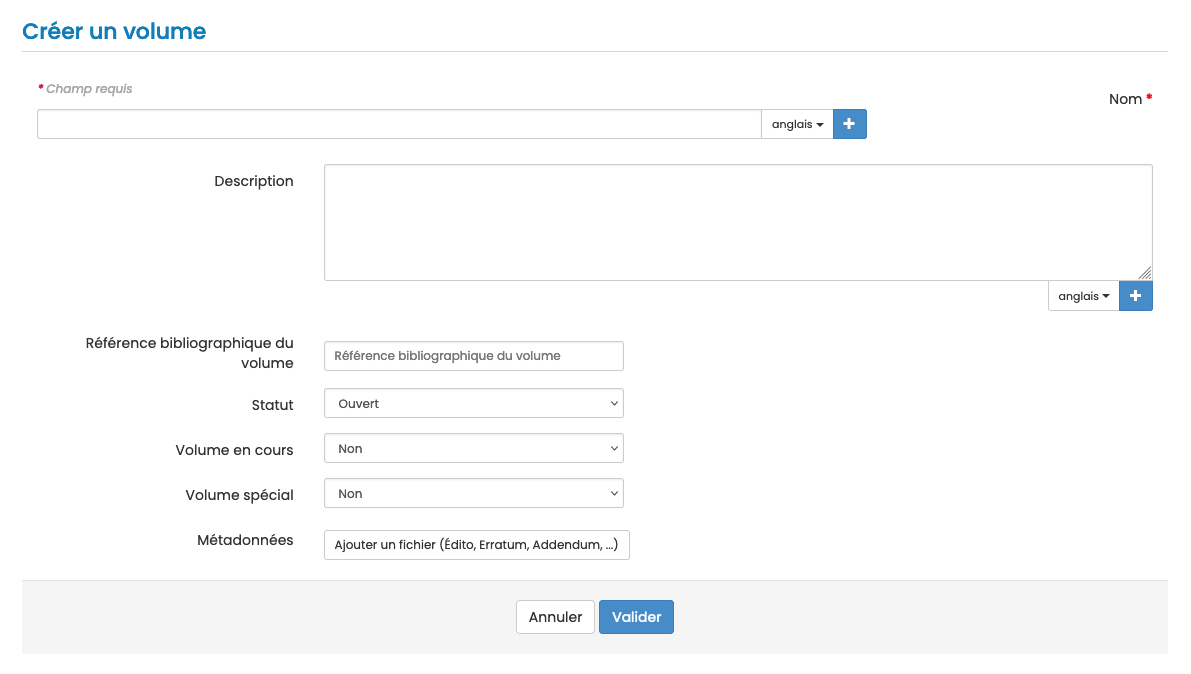
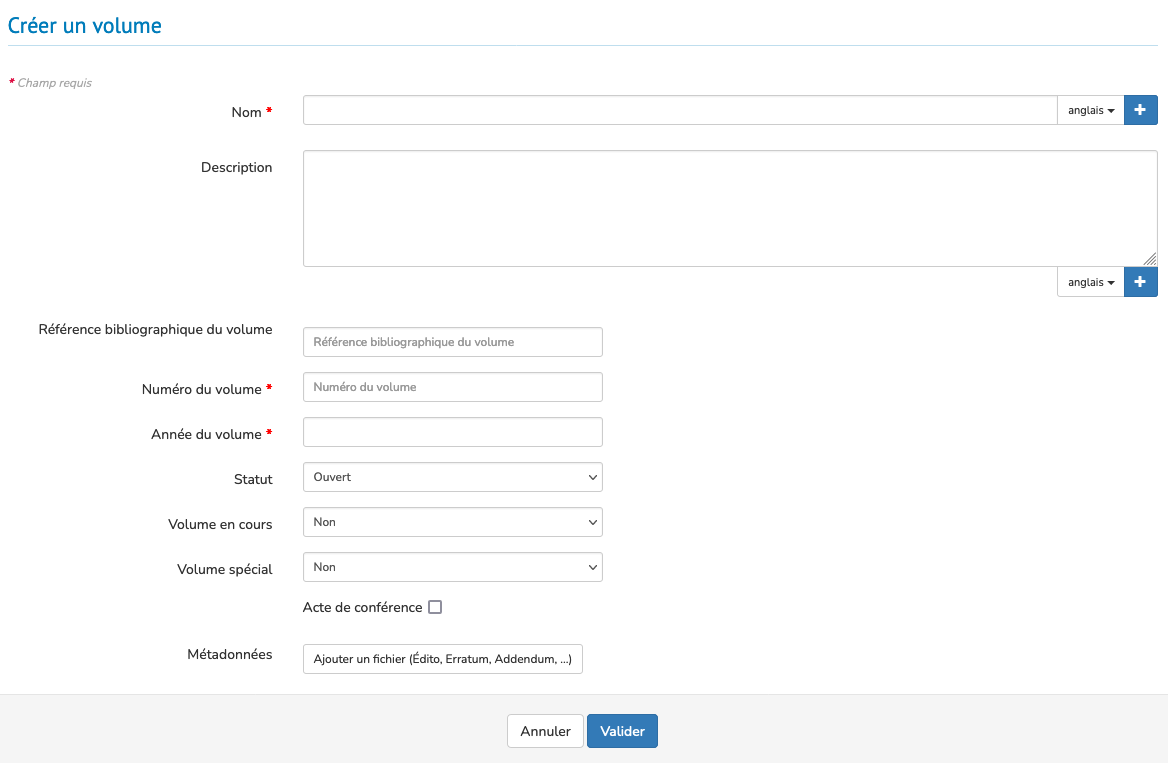
maj volumes : ajout “numéro volume” et “année de publication”

diff --git a/docs/fr/volumes.md b/docs/fr/volumes.md
@@ -1,12 +1,12 @@
-# Volumes et rubriques
+# Volumes
 
 > **Rôles** : administrateur, rédacteur en chef, secrétaire de rédaction
 
-Il est possible de créer des volumes et des rubriques.
-
 Les volumes s’apparentent à des numéros de revues et permettent de rassembler des articles thématiques.
 
-## Volumes
+Il est possible de créer des volumes courants et des volumes spéciaux.
+
+## Volumes courants
 Pour créer et gérer les volumes, aller dans : Gérer la revue > Revue > Volumes.
 
 ![Alt text](img/volumes-1.png "Créer un volume")
@@ -21,22 +21,37 @@ Pour créer un volume, cliquer sur “Créer un volume”.
 
 ![Alt text](img/volumes-2.png "Créer un volume : formulaire")
 
-Un volume est composé de 7 éléments :
+Un volume est composé de 10 éléments. Les champs marqués d’un astérisque sont obligatoires :
 
-- **Nom** (obligatoire) : titre du volume
+- **Nom*** : titre du volume
 - **Description** : description du volume
 - **Référence bibliographique du volume** : indiquer ici l’identifiant du volume (ex : 18, vol. 2, vol.24:1). Cette 
   référence est reprise dans les templates de mail.
+- **Numéro du volume*** : numéro de la publication (ex : 18, 24:1, XII)
+- **Année du volume*** : année de publication du volume au format AAAA (ex : 2024)
 - **Statut** (ouvert/fermé) : un statut ouvert permet d’ajouter des articles au fil de l’eau
 - **Volume en cours** (oui/non) : en sélectionnant l’option “oui” et le statut “ouvert”, ce volume est proposé lors du 
   dépôt
 - **Volume spécial** (oui/non) : volume accessible uniquement avec un code d’accès
+  - **Acte de conférence** : voir précisions ci-dessous
 - **Métadonnées** : permet d’ajouter un fichier PDF, comme un édito, un erratum, un addendum, des remerciements, un 
-  hommage, etc.
+  hommage, etc. mais également une image de couverture au format .png ou .jpg
 
 Si le site de la revue est en plusieurs langues, le nom du volume et la description doivent être saisis pour chacune des langues. Cliquer sur + pour afficher le champ.
 
-##  Volume spécial
+## Actes de conférences
+En cochant la case dédiée, de nouveaux paramètres s’affichent.
+
+- **Nom de la conférence*** : titre de la conférence
+- **Thème de la conférence**
+- **Acronyme de la conférence**
+- **Numéro de la conférence**
+- **Lieu de la conférence** : indiquer la ville et le pays (ex : Lyon, France)
+- **Date de début de la conférence*** : un calendrier permet de sélectionner la date au format AAA-MM-JJ
+- **Date de fin de la conférence***
+- **DOI de l'acte de conférence****
+
+## Volume spécial
 Le fonctionnement d’un volume spécial est lié aux paramètres des volumes spéciaux définis dans la rubrique Revue > Paramètres > Paramètres des volumes spéciaux :
 
 - **Protéger la soumission dans les volumes spéciaux par un code d’accès** : si l’item est coché, un code d’accès est 
@@ -59,25 +74,3 @@ Si dans Revue > Paramètres > Paramètres des volumes spéciaux, vous avez séle
 
 Ce code est envoyé aux contributeurs pour les inviter à soumettre un article dans le volume spécial. 
 
-## Rubriques
-Pour créer et gérer les rubriques, aller dans Gérer la revue > Revue > Rubriques.
-
-![Alt text](img/sections-1.png "Créer une rubrique")
-
-Plusieurs rubriques peuvent être ouvertes en même temps. Un auteur peut soumettre un article dans n’importe quelle rubrique.
-
-Pendant le processus de relecture, un article peut être affecté à une autre rubrique par le rédacteur en chef (impossible après publication).
-
-Un article ne peut être soumis à une rubrique de statut “fermé”.
-
-Le nombre de rubriques n’est pas limité.
-
-![Alt text](img/sections-2.png "Créer une rubrique : champs à renseigner")
-
-Les métadonnées d’une rubrique :
-
-- **Nom** : champ obligatoire 
-- **Description** : ne sera pas affichée sur le site 
-- **Statut** : ouvert/fermé 
-
-Si le site de la revue est en plusieurs langues, le nom de la rubrique doit être saisi pour chacune des langues. Cliquer sur + pour afficher le champ.
